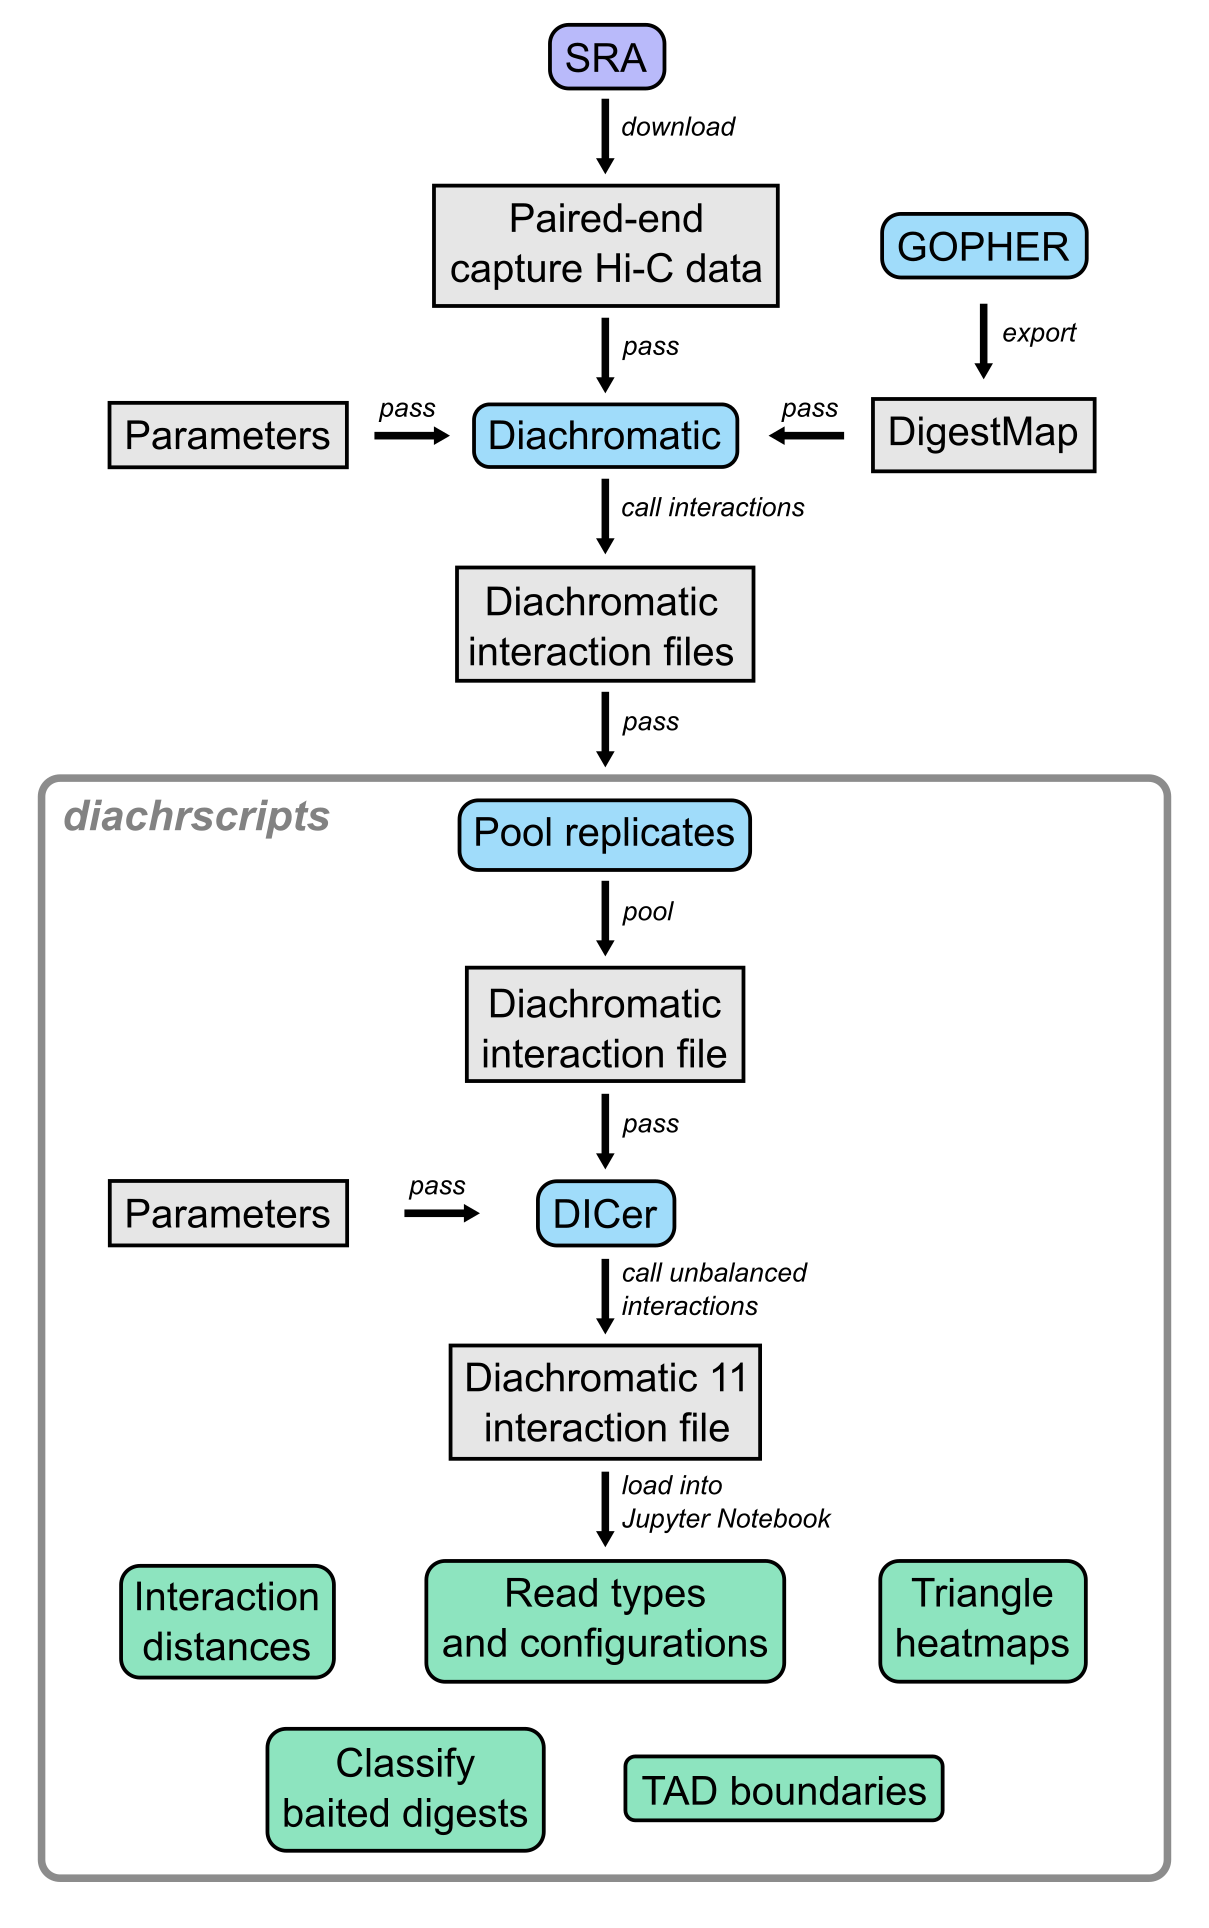
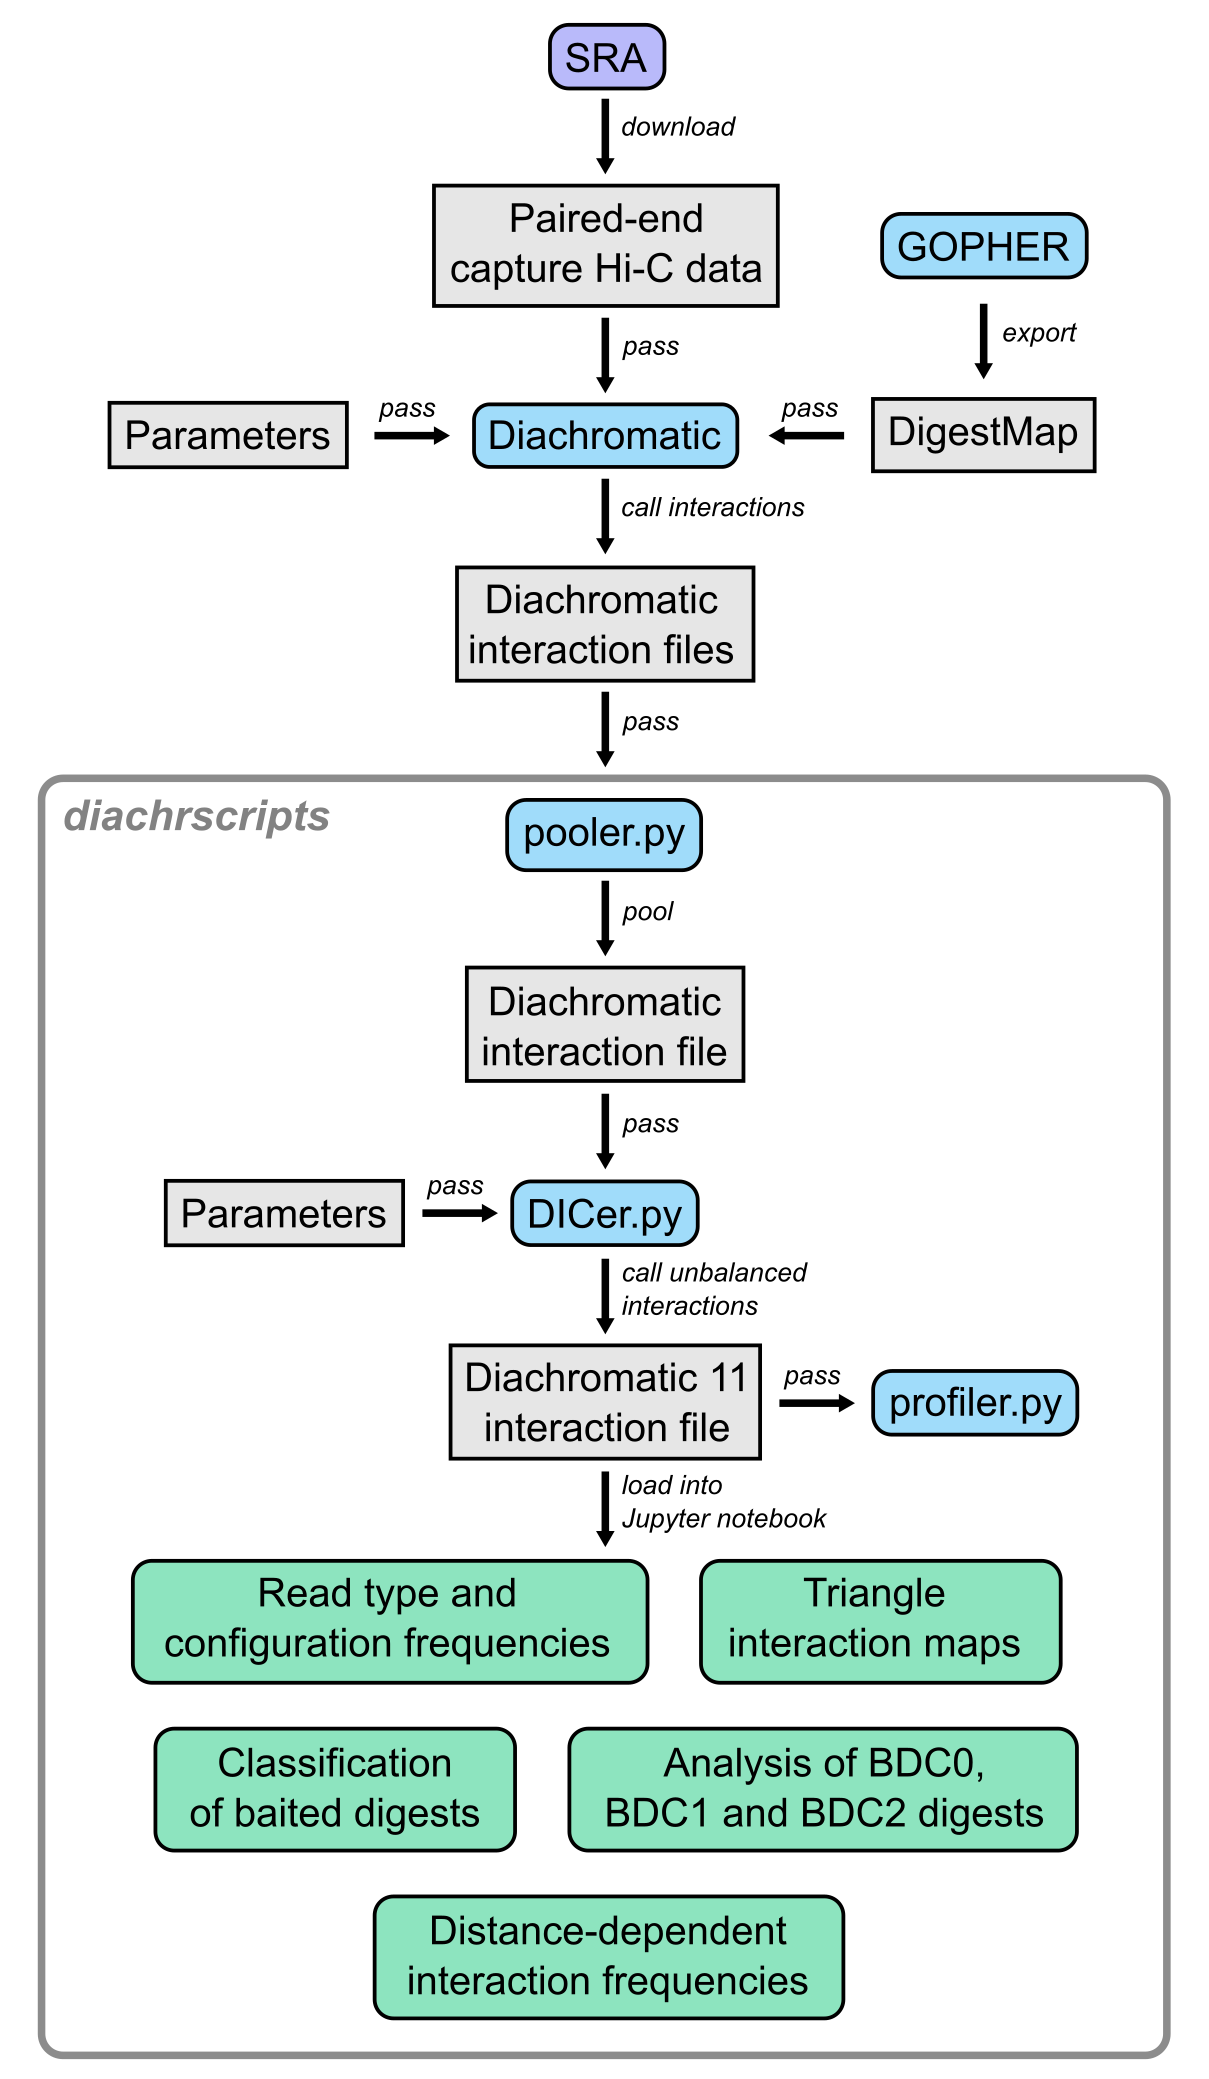
Updated RTD.

Changed region(s): [[0.0306, 0.0, 0.9793, 0.9959]]

diff --git a/docs/jupyter_notebooks.rst b/docs/jupyter_notebooks.rst
@@ -21,28 +21,34 @@ It can be created from an interaction file generated with ``DICer``.
         verbose = True)
 
 
-Frequencies of read types and configurations of interactions
-============================================================
+Read type and configuration Frequencies
+=======================================
 
 See this
-`notebook <https://github.com/TheJacksonLaboratory/diachrscripts/blob/develop/jupyter_notebooks/read_pair_and_interaction_types.ipynb>`__.
+`notebook <https://github.com/TheJacksonLaboratory/diachrscripts/blob/develop/jupyter_notebooks/publication/read_type_and_configuration_frequencies.ipynb>`__.
 
-Representation of interactions in triangle heatmaps
-===================================================
+Triangle interaction maps
+=========================
 
 See this
-`notebook <https://github.com/TheJacksonLaboratory/diachrscripts/blob/develop/jupyter_notebooks/dtvis.ipynb>`__.
+`notebook <https://github.com/TheJacksonLaboratory/diachrscripts/blob/develop/jupyter_notebooks/publication/triangle_interaction_maps.ipynb>`__.
 
 Classification of baited digests
 ================================
 
 See this
-`notebook <https://github.com/TheJacksonLaboratory/diachrscripts/blob/develop/jupyter_notebooks/interactions_at_baited_digests_select_baited_digests.ipynb>`__.
+`notebook <https://github.com/TheJacksonLaboratory/diachrscripts/blob/develop/jupyter_notebooks/publication/baited_digest_analysis_1.ipynb>`__.
 
-Interaction distances
-=====================
+Analysis of BDC0, BDC1 and BDC2 digests
+=======================================
 
 See this
-`notebook <https://github.com/TheJacksonLaboratory/diachrscripts/blob/develop/jupyter_notebooks/interaction_frequency_distance_analysis.ipynb>`__
+`notebook <https://github.com/TheJacksonLaboratory/diachrscripts/blob/develop/jupyter_notebooks/publication/baited_digest_analysis_2.ipynb>`__.
+
+Distance-dependent interaction frequencies
+==========================================
+
+See this
+`notebook <https://github.com/TheJacksonLaboratory/diachrscripts/blob/develop/jupyter_notebooks/publication/interaction_frequency_distance_analysis_1.ipynb>`__
 and this
-`one <https://github.com/TheJacksonLaboratory/diachrscripts/blob/develop/jupyter_notebooks/interaction_frequency_distance_analysis_2.ipynb>`__.
+`one <https://github.com/TheJacksonLaboratory/diachrscripts/blob/develop/jupyter_notebooks/publication/interaction_frequency_distance_analysis_2.ipynb>`__.
